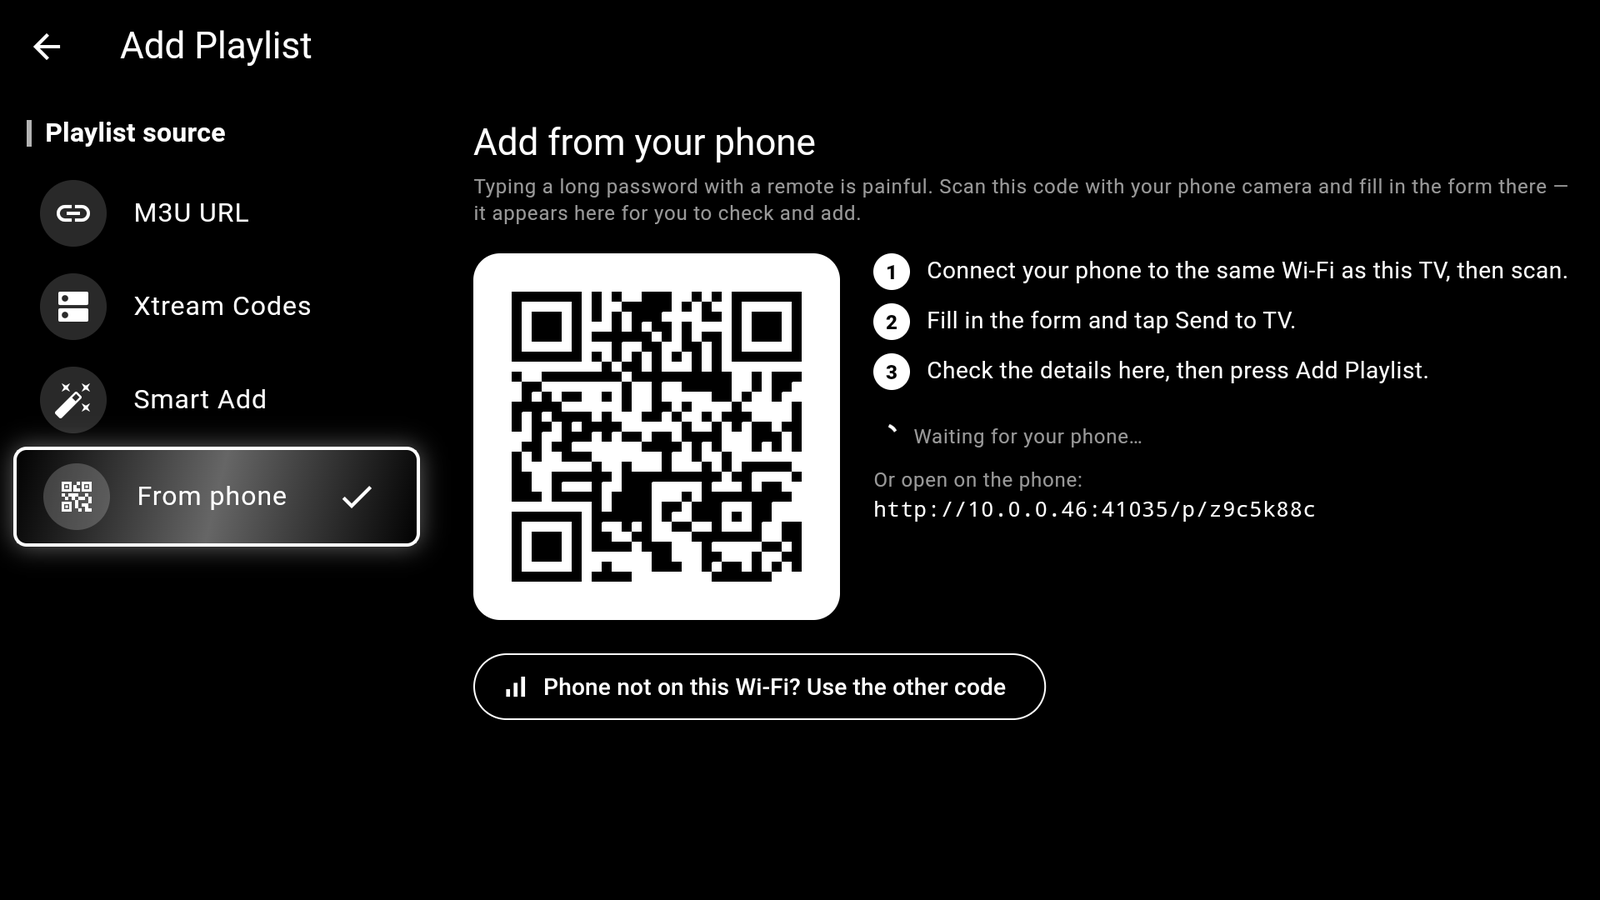
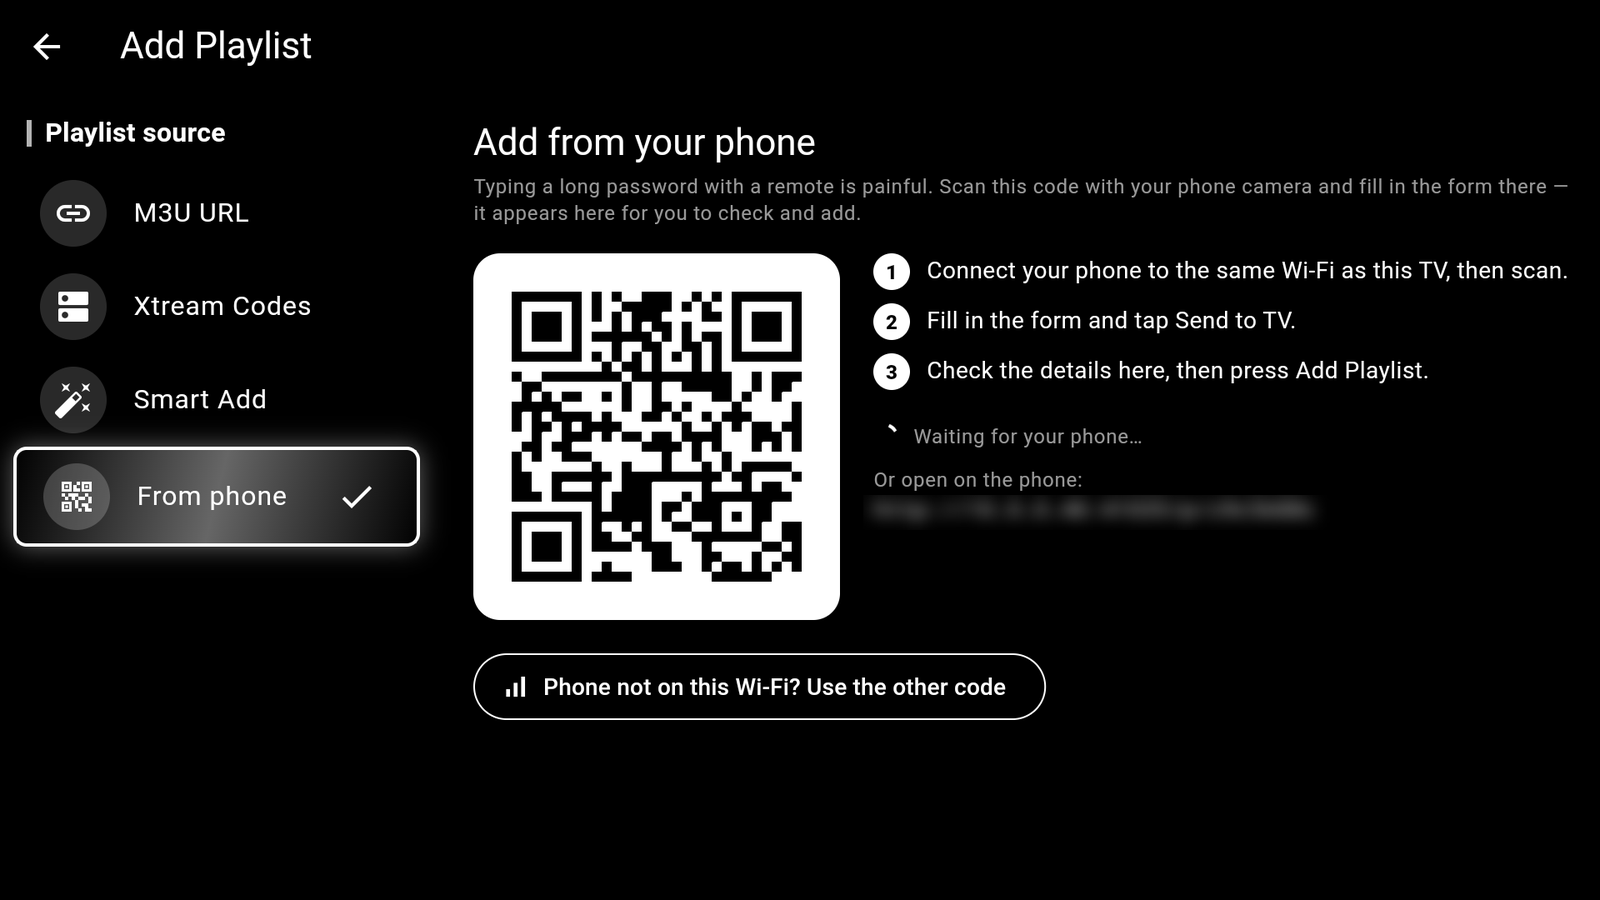
Site: blur the LAN address on the Add Playlist screenshot
Claude-Session: https://claude.ai/code/session_016HCSCPjEznVHX2g1cQJr48

Changed region(s): [[0.5312, 0.5289, 0.8438, 0.5911]]

diff --git a/docs/index.html b/docs/index.html
@@ -900,7 +900,7 @@ details .ans p + p{ margin-top:12px; }
         <li class="gal-item" role="group" aria-roledescription="slide" aria-label="10 of 11">
           <figure class="shot">
             <div class="shot-frame">
-              <img src="assets/shot-add.png?v=2" width="1600" height="900" loading="lazy" decoding="async" draggable="false"
+              <img src="assets/shot-add.png?v=3" width="1600" height="900" loading="lazy" decoding="async" draggable="false"
                    alt="VesperTV's Add Playlist screen with From phone selected: four source options on the left (M3U URL, Xtream Codes, Smart Add, From phone), and a QR code with three steps for filling in the playlist form on your phone instead of with the remote.">
             </div>
             <figcaption>Adding a playlist — scan the QR code and type it on your phone, no remote typing</figcaption>
